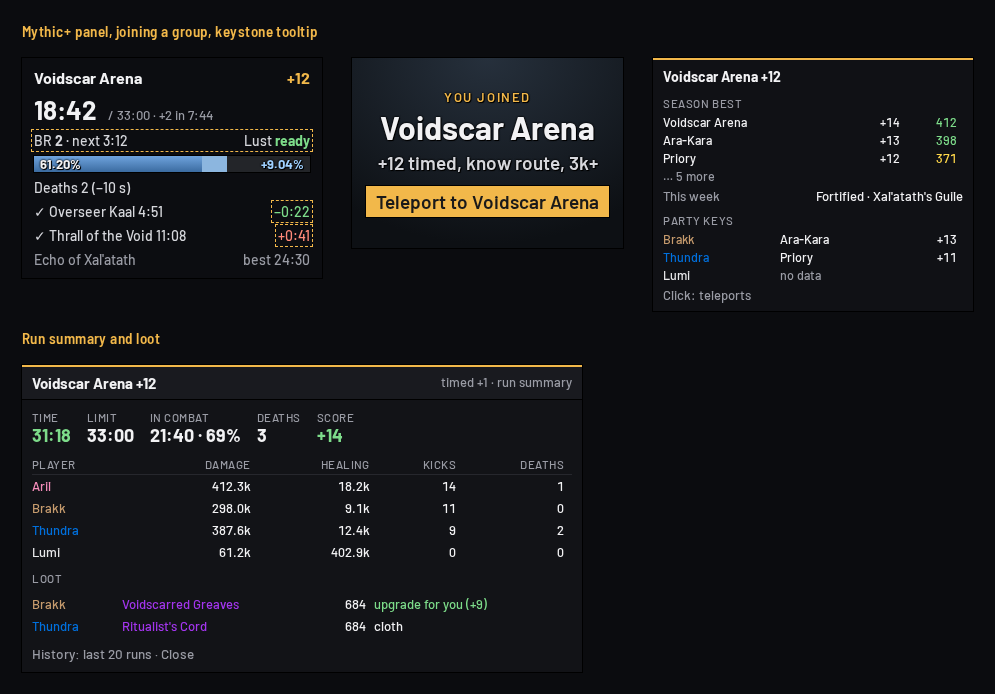
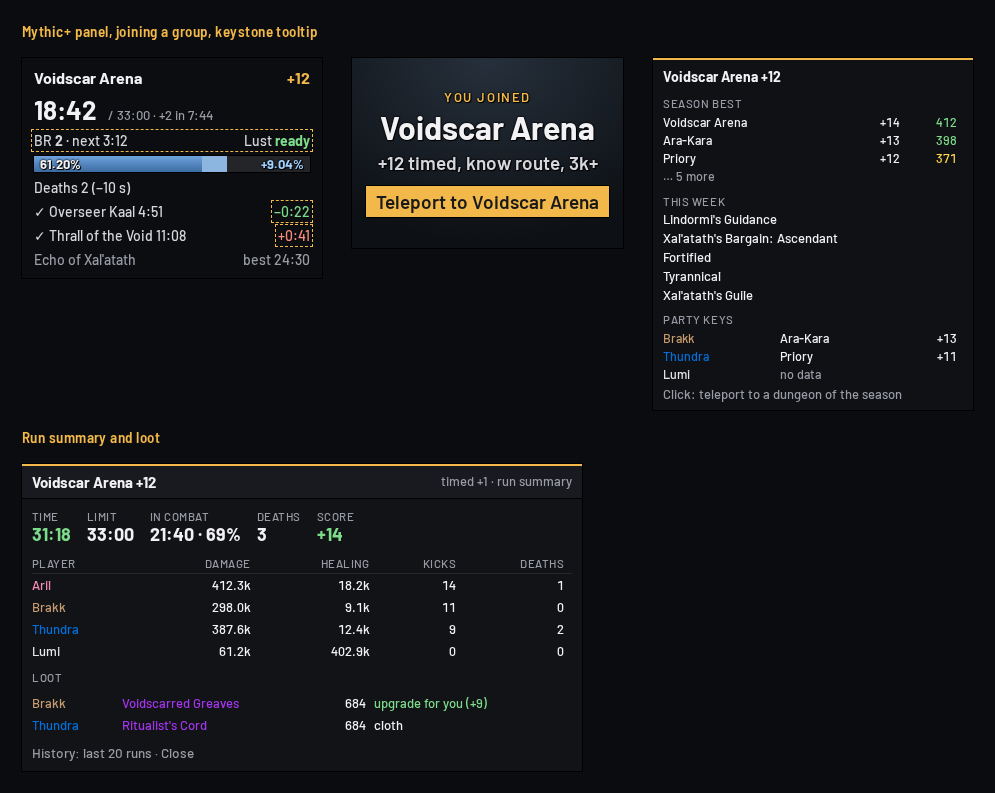
3.0.1: affixes one per line in the keystone tooltip, addon CPU and XP line on by default
- Keystone tooltip: this week's affixes in their own THIS WEEK section, one per line, and a gap
  before the click hint, so the tooltip keeps the season table's width.
- Addon CPU in the FPS tooltip and the XP/reputation line are on by default (owner's word).
- The Mythic+ feature picture shows the new tooltip; README and both changelogs updated.

diff --git a/README.md b/README.md
@@ -48,7 +48,7 @@ Every part below has its own switch in `/slimark`. A part that is switched off d
 
 **Top bar**
 
-Every element has its own switch. Of the new ones only Alts is on by default.
+Every element has its own switch. Of the new ones Alts, the addon CPU and the XP or reputation line are on by default.
 
 - **Alts:** item level, keystone, Great Vault, score and gold of each of your characters, crests on hover
 - Spec and loadout, friends and guild, addon CPU, this week in the Great Vault, quiet mode, and a thin XP or reputation line that takes no room (no XP at max level, no line without a watched faction)

diff --git a/CHANGELOG.md b/CHANGELOG.md
@@ -1,5 +1,11 @@
 # Changelog
 
+## 3.0.1
+
+- Keystone tooltip: this week's affixes have their own section, one per line, so the tooltip keeps the width of the season table
+- A click on the keystone opens the teleport list and hides the keystone tooltip, which used to cover the list. While the list is open the tooltip stays away
+- Addon CPU in the FPS tooltip and the XP or reputation line on the bottom edge of the top bar are on by default now
+
 ## 3.0.0
 
 Mythic+:
